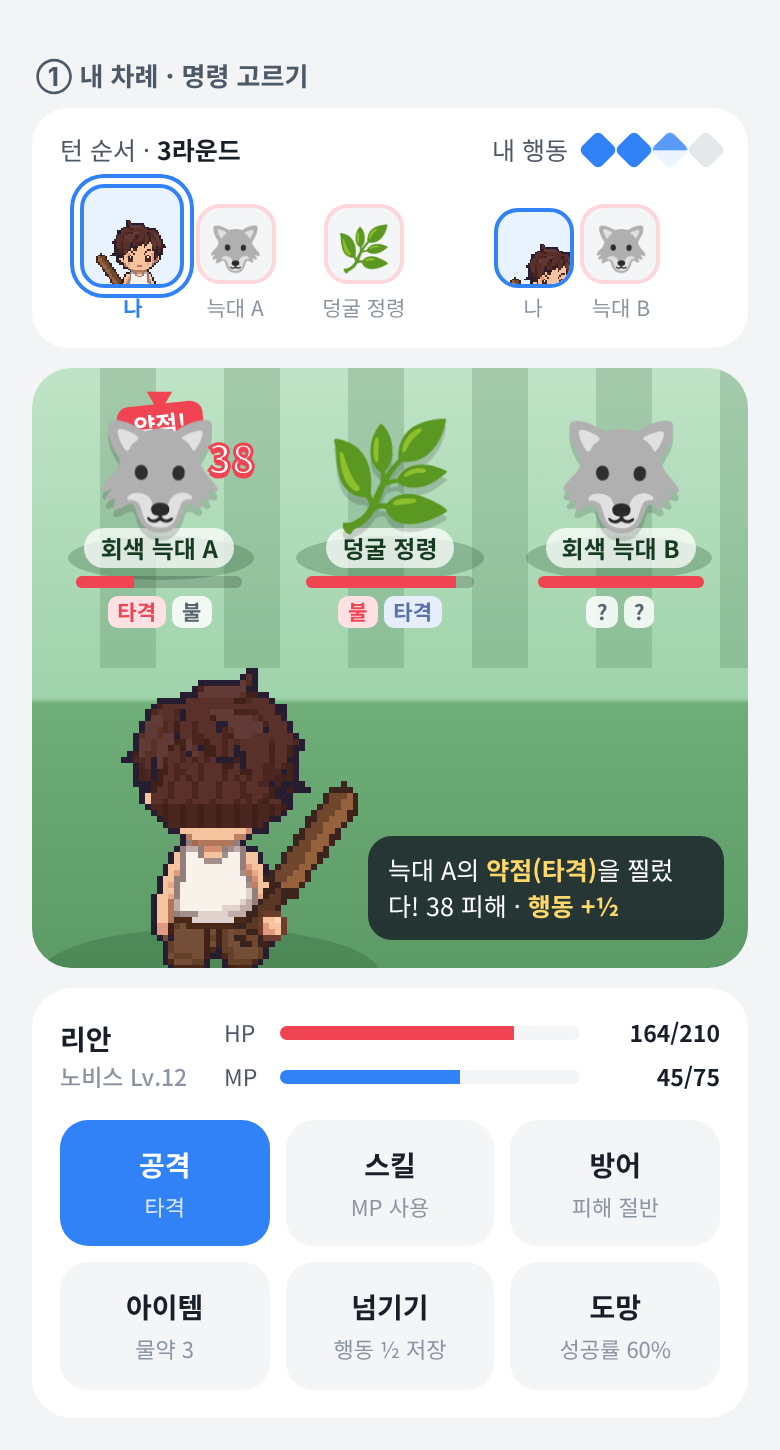
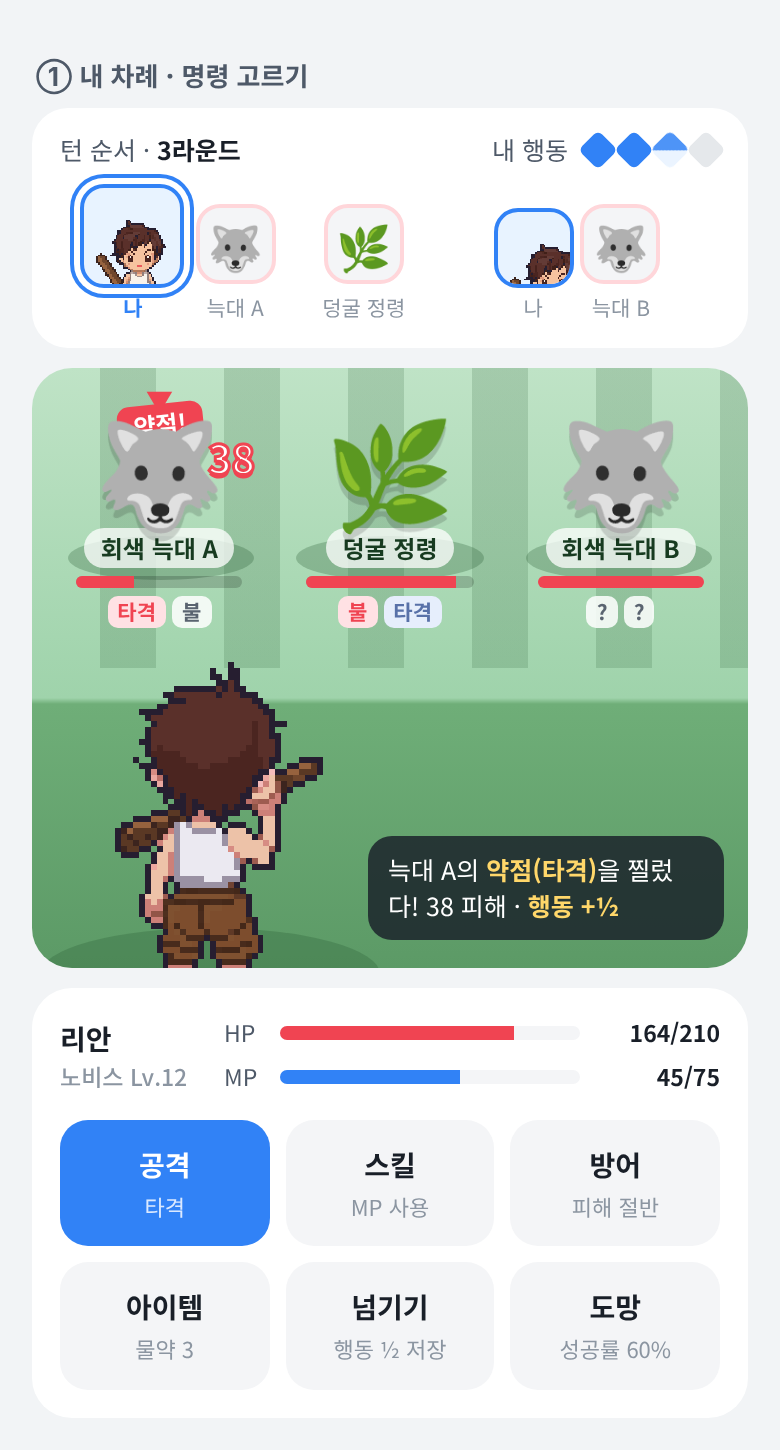
Use PixelLab back-view battle pose cut into skin/hair/club layers
Claude-Session: https://claude.ai/code/session_015cmTPUQ4zgwBRLa7nDL7dC

Changed region(s): [[0.1231, 0.4345, 0.4615, 0.6828], [0.1846, 0.3414, 0.2154, 0.3724]]

diff --git a/mockup/battle-preview.html b/mockup/battle-preview.html
@@ -103,7 +103,7 @@ body{background:var(--bg);color:var(--ink);font-family:'Noto Sans KR',system-ui,
     <div class="foe"><div class="spr">🌿</div><div class="nm">덩굴 정령</div><div class="hpb"><i style="width:90%"></i></div><div class="weak"><span class="w">불</span><span class="r">타격</span></div></div>
     <div class="foe"><div class="spr">🐺</div><div class="nm">회색 늑대 B</div><div class="hpb"><i style="width:100%"></i></div><div class="weak"><span>?</span><span>?</span></div></div>
   </div>
[2 lines of base64/hex data omitted]
   <div class="log">늑대 A의 <b>약점(타격)</b>을 찔렀다! 38 피해 · <b>행동 +½</b></div>
 </div>
 <div class="panel">

diff --git a/mockup/battle-preview.src.html b/mockup/battle-preview.src.html
@@ -103,7 +103,7 @@ body{background:var(--bg);color:var(--ink);font-family:'Noto Sans KR',system-ui,
     <div class="foe"><div class="spr">🌿</div><div class="nm">덩굴 정령</div><div class="hpb"><i style="width:90%"></i></div><div class="weak"><span class="w">불</span><span class="r">타격</span></div></div>
     <div class="foe"><div class="spr">🐺</div><div class="nm">회색 늑대 B</div><div class="hpb"><i style="width:100%"></i></div><div class="weak"><span>?</span><span>?</span></div></div>
   </div>
-  <div class="plat me"></div><div class="me-on"><img class="px" src="{{BODY}}" alt=""><img class="px" src="{{HAIR}}" alt=""><img class="px" src="{{WPN}}" alt=""><img class="px" src="{{FIST}}" alt=""></div>
+  <div class="plat me"></div><div class="me-on"><img class="px" src="{{BODY}}" alt=""><img class="px" src="{{HAIR}}" alt=""><img class="px" src="{{WPN}}" alt=""></div>
   <div class="log">늑대 A의 <b>약점(타격)</b>을 찔렀다! 38 피해 · <b>행동 +½</b></div>
 </div>
 <div class="panel">

diff --git a/tools/make_sprites.py b/tools/make_sprites.py
@@ -106,7 +106,6 @@ for i, w in enumerate(weapons):
     sprites[f'wico{i}'] = w
 
 # back view (Pokemon-style battle): mirror the front sprite and cover the face with hair
-from PIL import ImageOps
 HAIR_LV = {(99, 59, 54): 0, (90, 48, 42): 1, (80, 43, 36): 1, (75, 37, 32): 2, (70, 34, 29): 2, (64, 32, 24): 3}
 HAIR_COLS = ['brown', 'black', 'blonde', 'red', 'silver', 'blue', 'pink']
 HAIR_PAL = {'brown': [(99, 59, 54), (90, 48, 42), (75, 37, 32), (64, 32, 24)],
@@ -117,30 +116,70 @@ HAIR_PAL = {'brown': [(99, 59, 54), (90, 48, 42), (75, 37, 32), (64, 32, 24)],
             'blue': [(110, 150, 226), (76, 110, 190), (56, 80, 150), (42, 58, 116)],
             'pink': [(246, 168, 196), (220, 124, 164), (178, 88, 128), (140, 64, 100)]}
 OUTL = (38, 30, 48, 255)
-fb = ImageOps.mirror(sprites['body0'])
+# back pose (PixelLab, 3/4 from behind, club on the shoulder) cut into body / hair / club layers
+bp = Image.open(A + 'raw/back_pose1.png').convert('RGBA')
+B_HAIR = {(94, 72, 81): 0, (66, 45, 55): 1, (55, 33, 43): 2}
+B_LINE = {(43, 21, 31), (48, 26, 35)}
+B_SKIN = {(237, 194, 168), (215, 140, 131), (205, 128, 120), (235, 168, 160), (244, 187, 186), (187, 112, 104),
+          (169, 99, 88), (158, 92, 80), (145, 85, 71), (138, 80, 66)}
+B_CLUB = {(182, 124, 74): 0, (125, 77, 45): 1, (113, 67, 50): 2, (95, 57, 38): 2, (78, 48, 31): 3, (72, 43, 28): 3, (68, 40, 25): 3}
+WOOD_RAMP = [(184, 131, 94), (139, 93, 61), (116, 74, 57), (82, 50, 50)]
+CLUB_RAMPS = [WOOD_RAMP, RAMPS['oak'], WOOD_RAMP, WOOD_RAMP, RAMPS['steel'], RAMPS['mithril'], RAMPS['bone']]
+bbase, bhair, bclub = Image.new('RGBA', (64, 64)), Image.new('RGBA', (64, 64)), Image.new('RGBA', (64, 64))
+for y in range(64):
+    for x in range(64):
+        p = bp.getpixel((x, y))
+        if p[3] <= 128: continue
+        c = p[:3]
+        if c in B_HAIR or (c in B_LINE and y <= 18): bhair.putpixel((x, y), p)
+        elif c in B_CLUB and y <= 35: bclub.putpixel((x, y), p)
+        else: bbase.putpixel((x, y), p)
+op = lambda x, y: 0 <= x < 64 and 0 <= y < 64 and bp.getpixel((x, y))[3] > 128
+def outline(layer):
+    for y in range(64):
+        for x in range(64):
+            px = layer.getpixel((x, y))
+            if px[3] and (px[:3] in B_LINE or any(not op(x + dx, y + dy) for dx, dy in ((1, 0), (-1, 0), (0, 1), (0, -1)))):
+                layer.putpixel((x, y), OUTL)
+for L in (bbase, bhair, bclub): outline(L)
+for k, s in enumerate(SKINS):
+    kk = [t / b for t, b in zip(s, SKIN_BASE)]
+    im = bbase.copy()
+    for y in range(64):
+        for x in range(64):
+            px = im.getpixel((x, y))
+            if px[3] and px[:3] in B_SKIN:
+                im.putpixel((x, y), tuple(min(255, round(c * f)) for c, f in zip(px[:3], kk)) + (255,))
+    sprites[f'bbody{k}'] = im
 for i, c in enumerate(HAIR_COLS):
-    h = ImageOps.mirror(sprites[f'hair{i}']).copy()
-    pal = HAIR_PAL[c]
-    comp = fb.copy(); comp.alpha_composite(h)
-    op = lambda x, y: 0 <= x < 64 and 0 <= y < 64 and comp.getpixel((x, y))[3] > 128
-    for y in range(13, 29):
-        for x in range(22, 44):
-            if not op(x, y) or h.getpixel((x, y))[3] > 128:
-                continue
-            edge = any(not op(x + dx, y + dy) for dx, dy in ((1, 0), (-1, 0), (0, 1), (0, -1)))
-            if edge:
-                h.putpixel((x, y), OUTL); continue
-            lv = 1
-            if (x + (y // 3)) % 4 == 0: lv = 2
-            if y >= 25: lv = 2 if (x % 3) else 3
-            if y <= 15 and x % 3 == 1: lv = 0
-            h.putpixel((x, y), pal[lv] + (255,))
-    sprites[f'bhair{i}'] = h
-for k in range(4):
-    sprites[f'bbody{k}'] = ImageOps.mirror(sprites[f'body{k}'])
-    sprites[f'bfist{k}'] = ImageOps.mirror(sprites[f'fist{k}'])
-for i in range(7):
-    sprites[f'bwpn{i}'] = ImageOps.mirror(sprites[f'wpn{i}'])
+    im = bhair.copy()
+    for y in range(64):
+        for x in range(64):
+            px = im.getpixel((x, y))
+            if px[3] and px[:3] in B_HAIR:
+                im.putpixel((x, y), HAIR_PAL[c][B_HAIR[px[:3]]] + (255,))
+    sprites[f'bhair{i}'] = im
+for i, ramp in enumerate(CLUB_RAMPS):
+    im = bclub.copy()
+    for y in range(64):
+        for x in range(64):
+            px = im.getpixel((x, y))
+            if px[3] and px[:3] in B_CLUB:
+                head = x < 32
+                r = ramp if (head or i in (1, 6)) else RAMPS['oak'] if i >= 4 else ramp
+                im.putpixel((x, y), r[B_CLUB[px[:3]]] + (255,))
+    if i == 2:  # nails on the club head
+        for x, y in ((16, 29), (19, 27), (22, 26), (25, 27), (18, 31)):
+            if im.getpixel((x, y))[3]: im.putpixel((x, y), (196, 202, 214, 255))
+    if i == 3:  # iron bands
+        for x in range(12, 32):
+            for y in range(24, 34):
+                if im.getpixel((x, y))[3] and x in (20, 21, 27, 28) and im.getpixel((x, y))[:3] != OUTL[:3]:
+                    im.putpixel((x, y), (150, 156, 172, 255) if x in (20, 27) else (108, 114, 130, 255))
+    if i == 6:
+        for x, y in ((18, 29), (19, 29), (24, 28)):
+            if im.getpixel((x, y))[3]: im.putpixel((x, y), (204, 52, 64, 255))
+    sprites[f'bwpn{i}'] = im
 
 data = {}
 for k, im in sprites.items():
@@ -160,7 +199,7 @@ for i in range(4):
 row.resize((row.width * 3, 192), Image.NEAREST).save(A + 'preview_game_sprites.png')
 back = Image.new('RGBA', (68 * 7, 64), (244, 245, 246, 255))
 for i in range(7):
-    c = sprites[f'bbody{i % 4}'].copy(); c.alpha_composite(sprites[f'bhair{i}']); c.alpha_composite(sprites[f'bwpn{i}']); c.alpha_composite(sprites[f'bfist{i % 4}'])
+    c = sprites[f'bbody{i % 4}'].copy(); c.alpha_composite(sprites[f'bhair{i}']); c.alpha_composite(sprites[f'bwpn{i}'])
     back.alpha_composite(c, (i * 68, 0))
 back.resize((back.width * 3, 192), Image.NEAREST).save(A + 'preview_back_sprites.png')
 print(sum(len(v) for v in data.values()), 'bytes of data URIs')

diff --git a/tools/gen_image.py b/tools/gen_image.py
@@ -1,0 +1,15 @@
+"""One PixelLab pixflux generation (1 credit). usage: gen_image.py out.png W H direction seed "description" """
+import sys, json, base64, io, urllib.request
+from PIL import Image
+out, W, H, direction, seed, desc = sys.argv[1], int(sys.argv[2]), int(sys.argv[3]), sys.argv[4], int(sys.argv[5]), sys.argv[6]
+body = {"description": desc, "image_size": {"width": W, "height": H}, "outline": "single color outline",
+        "shading": "basic shading", "detail": "medium detail", "view": "side", "direction": direction,
+        "no_background": True, "text_guidance_scale": 8, "seed": seed}
+req = urllib.request.Request("https://api.pixellab.ai/v2/create-image-pixflux", data=json.dumps(body).encode(),
+                             headers={"Content-Type": "application/json"}, method="POST")
+try:
+    r = json.load(urllib.request.urlopen(req, timeout=300))
+except urllib.error.HTTPError as e:
+    print('HTTP', e.code, e.read()[:300]); sys.exit(1)
+print(out, r.get('usage'))
+Image.open(io.BytesIO(base64.b64decode(r['image']['base64'].split(',')[-1]))).convert('RGBA').save(out)

diff --git a/CLAUDE.md b/CLAUDE.md
@@ -18,7 +18,7 @@
 - 레벨 1~30: 수련(EXP 15)·사냥·원정·의뢰로 경험치. 레벨 업마다 능력치 1포인트(잠재력의 벽은 그대로 적용). 행동력은 없다.
 - 해마다 수련 3회 + 사냥 3회(사냥터 7곳, Lv 구간별 개방) → 원정. 의뢰 3개/년, 메인 퀘스트는 레벨 달성형.
 - 장비 칸: 무기·투구·상의·하의·한벌옷(상하의 대신)·신발·망토·귀걸이·반지 5칸. 등급대 7개(Lv1·5·10·…·30) × 희귀도 5. 세트 이름만 있고 세트 효과는 나중에.
-- PixelLab 남은 무료 생성: 18회(2026-10-12 기준). 192px 큰 인페인팅은 502로 자주 실패하고 크레딧은 빠지니 쓰지 말 것.
+- PixelLab 남은 무료 생성: 17회(2026-10-12 기준). 192px 큰 인페인팅은 502로 자주 실패하고 크레딧은 빠지니 쓰지 말 것.
 
 ## 게임 규칙 요약(바꾸지 말 것)
 - 시작: 15세, 전투력 45, 능력치 합 240, 비밀 잠재력·기질.
